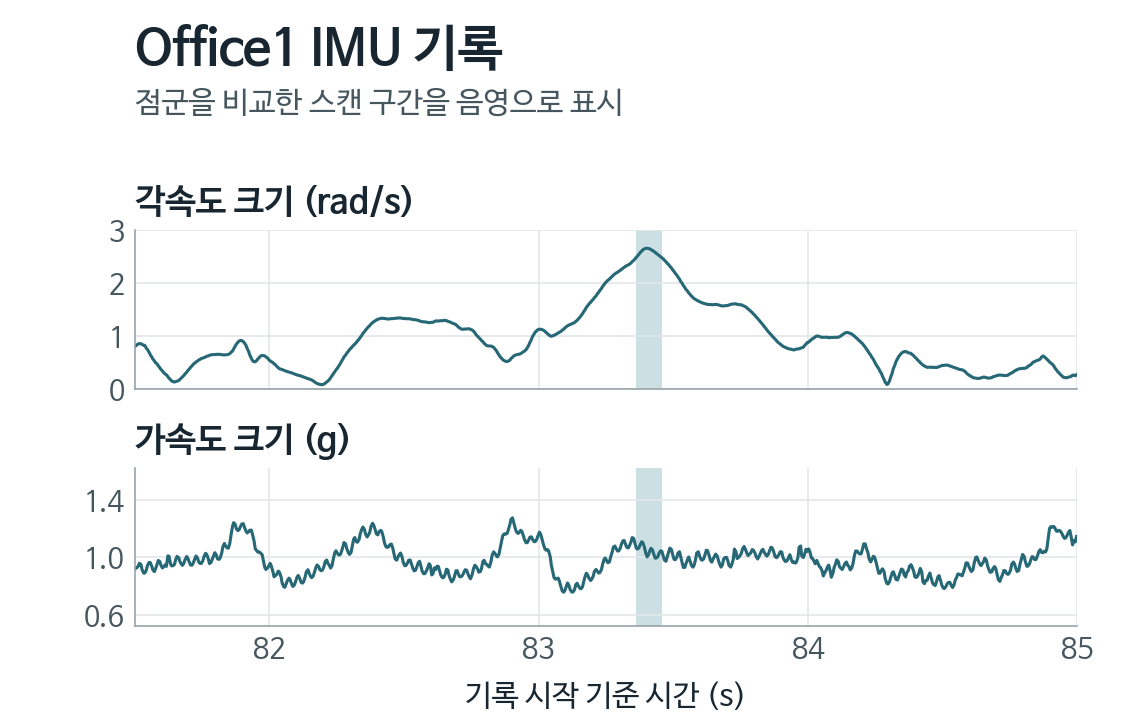
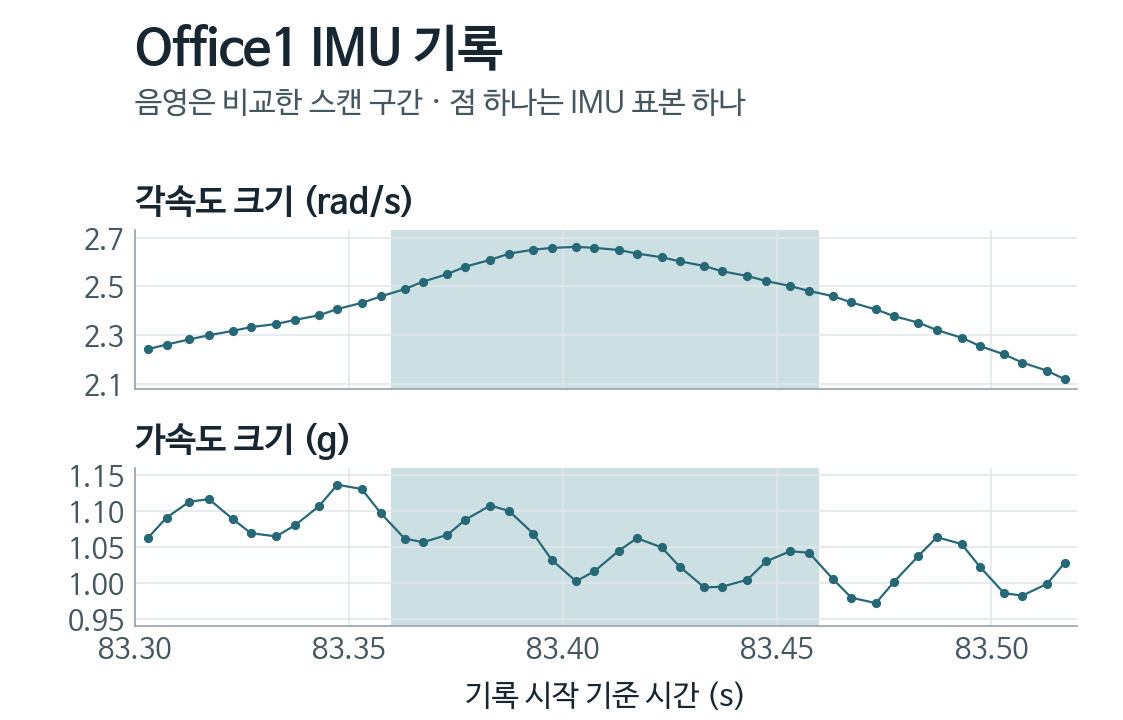
Follow one measured scan through LIO prediction and correction

diff --git a/src/content/blog/lio/index.md b/src/content/blog/lio/index.md
@@ -9,71 +9,68 @@ tags:
   - LIO
   - Odometry
   - ROS 2
-summary: "IMU 상태 전파와 LiDAR 정합을 실측 점군과 주행 궤적으로 정리."
+summary: "Office1 스캔 한 구간의 IMU 예측, 왜곡 보정, 점–평면 정합."
 ---
 
-**LIO**(LiDAR–Inertial Odometry)는 IMU와 LiDAR로 3차원 위치·회전을 추정한다. **IMU 전파 → 스캔 왜곡 보정 → LiDAR 정합**.
+**LIO**(LiDAR–Inertial Odometry)는 IMU와 LiDAR로 위치와 회전을 추정한다. FAST-LIO2처럼 스캔 단위로 처리하는 방식은 먼저 IMU로 스캔 끝 자세를 예측한다. 그 사이의 움직임으로 점들의 좌표를 맞춘 뒤, 앞서 본 벽과 바닥에 정합해 예측 자세를 고친다. [FAST-LIO2 논문 IV절][fast-lio2]
 
-![실제 복도 사진과 같은 장면에 투영한 LiDAR 점.](./office3-scene.jpg)
+Office1 기록의 83.360–83.460초 구간에서는 LiDAR 패킷 5개를 한 스캔으로 묶었다. 이 100 ms 동안 내장 IMU가 20번 값을 기록했고, 자이로를 적분한 회전량은 14.8°였다. [Zhang 외, Office1][office1] · [CC BY 4.0][cc-by]
 
-*복도 사진에 촬영 시각 ±48 ms의 LiDAR 점 투영. [Zhang 외, Office3][office3] · [CC BY 4.0][cc-by]*
+## IMU 전파
 
-## IMU 상태 전파
+직전 스캔에서 보정한 **위치·회전·속도**에서 시작한다. 자이로로 각속도를 읽을 때마다 바이어스를 빼고 짧은 시간 간격만큼 적분해 회전을 갱신한다. 가속도계의 값도 바이어스를 뺀 뒤, 갱신한 회전으로 오도메트리 좌표계에 옮기고 중력 벡터를 더한다. 이렇게 얻은 가속도를 적분해 속도와 위치를 이어 간다. [FAST-LIO2 논문 IV-A절][fast-lio2-model]
 
-- 자이로 · 바이어스 보정 후 각속도 적분, 회전 예측.
-- 가속도계 · 바이어스 보정·좌표 변환·중력 반영 후 속도·위치 적분. [FAST-LIO2 논문 IV절][fast-lio2]
+![Office1 IMU의 각속도와 가속도계 측정값. 음영은 83.360–83.460초 스캔 구간.](./office1-imu.png)
 
-![Office1 IMU의 각속도와 가속도계 측정값 크기. 다음 그림에 사용한 약 100 ms 스캔 구간이 음영으로 표시돼 있다.](./office1-imu.png)
+*음영은 아래에서 왜곡을 보정한 스캔의 시작과 끝을 표시한다.*
 
-*Livox MID-360 내장 IMU 실측값. 음영은 점군 비교 구간. [Zhang 외, Office1][office1] · [CC BY 4.0][cc-by]*
+자이로에 작은 바이어스가 남으면 샘플을 적분할 때 회전 오차가 쌓인다. 기울기 추정이 틀어지면 중력을 보정한 뒤에도 수평 가속도처럼 보이는 오차가 남는다. [LIO-SAM 논문 III-B절][lio-sam-imu]
 
-## 스캔 왜곡 보정 (Deskew)
+## 스캔 왜곡 보정
 
-- 점마다 취득 시각이 달라 센서가 움직이면 벽이 휘어 보임.
-- IMU로 추정한 점별 상대 자세로 공통 시각에 정렬. FAST-LIO2는 스캔 끝 기준. [FAST-LIO2 논문 IV절][fast-lio2]
+한 스캔의 첫 점과 마지막 점은 서로 다른 LiDAR 좌표계에서 찍힌다. 가령 회전축에서 5 m 떨어진 점은 센서가 제자리에서 14.8° 돌 때 좌표가 약 1.29 m 바뀐다. 점별 취득 시각을 무시하고 합치면 곧은 벽도 휘거나 두껍게 보인다.
 
-![같은 스캔의 XY 투영. 왼쪽은 원시 점군, 오른쪽은 점을 스캔 끝 자세로 회전 보정한 점군.](./office1-deskew.png)
+IMU 자세에 LiDAR→IMU 변환을 곱하면 LiDAR 자세를 얻는다. `T_i`는 점 `p_i`를 찍은 시각의 LiDAR 자세, `T_end`는 스캔 끝 자세다. 두 자세 모두 LiDAR 좌표를 같은 오도메트리 좌표계로 옮긴다. `T_i`로 점을 옮긴 뒤 `T_end`를 역으로 적용하면 스캔 끝의 LiDAR 좌표가 된다. FAST-LIO2는 이 시각을 기준으로 모든 점을 맞춘다. [FAST-LIO2 논문 IV-A.2절][fast-lio2-deskew]
 
-*약 100 ms 동안 자이로 적분 기준 14.8° 회전한 구간. 오른쪽은 회전 성분만 보정. [Zhang 외, Office1][office1] · [CC BY 4.0][cc-by]*
+```text
+p_end = inv(T_end) · T_i · p_i
+```
 
-## 점–평면 정합
+![동일한 Office1 점군의 회전 보정 전후. 오른쪽은 각 점을 스캔 끝 좌표계에 맞춘 결과.](./office1-deskew.png)
 
-- 예측 자세로 옮긴 스캔 점 `p`를 참조 점군의 가까운 평면에 대응.
-- 평면 위의 점 `q`, 단위 법선 `n`으로 부호 있는 수직 잔차 `r = nᵀ · (p − q)` 계산. 잔차가 줄도록 자세 갱신. [FAST-LIO2 논문 IV절][fast-lio2]
-- 벽과 평행한 이동에서는 잔차가 그대로. 평행한 벽만 보이는 복도는 진행 방향 보정이 약함. [LION 논문][lion]
+*같은 범위와 축척. 오른쪽은 자이로로 계산한 회전 성분만 적용했다.*
 
-![벽을 따라 점을 옮겨도 벽까지의 수직 거리 r이 그대로인 점–평면 정합 개념도.](./point-plane.png)
+점이 찍힌 시각의 자세를 찾으려면 LiDAR와 IMU가 같은 시간축을 써야 한다. 위 스캔의 회전량을 평균 속도로 환산하면 약 148°/s다. 이 속도에서 시계가 10 ms 어긋나면 점을 옮길 때 쓰는 회전도 약 1.5° 어긋난다. bag에서는 `time`, `t`, `offset_time` 같은 점별 시각 필드의 단위와 기준 시각을 확인한다. [FAST-LIO 입력 설정][fast-lio-input] · [LI-Init 논문][li-init]
 
-## 대표 구현
+## LiDAR 정합
 
-- **FAST-LIO2** · 점–평면 잔차를 반복 확장 칼만 필터에 직접 반영. [논문][fast-lio2] · [시연][fast-lio2-demo]
-- **LIO-SAM** · 모서리·평면 정합으로 구한 상대 자세와 IMU 사전 적분을 팩터 그래프에서 결합. [논문][lio-sam] · [시연][lio-sam-demo]
+스캔 끝 기준으로 정리한 점군을 IMU가 예측한 자세에 놓는다. 그 자세가 조금 빗나갔다면 새로 찍은 벽 점과 참조 점군의 벽 사이에 간격이 남는다. FAST-LIO2는 새 점 `p` 주위에서 참조 점을 찾아 평면을 맞춘다. 평면 위의 점이 `q`, 단위 법선이 `n`이면 `r = nᵀ · (p − q)`가 부호 있는 수직 거리다. 여러 벽과 바닥에서 얻은 잔차가 함께 작아지도록 위치와 회전을 바꾼다. [FAST-LIO2 논문 IV-B절][fast-lio2-update]
 
-## FAST-LIO2 주행 결과
+Office1에서 계산한 예시는 위 스캔과 직전 스캔 사이의 점–평면 ICP다. 두 스캔의 회전 왜곡을 보정한 뒤 자이로 상대 회전과 병진 초기값 0 m에서 정합했다. 평가용 대응 2,097쌍을 고정해 비교하면 수직 거리 절댓값의 중앙값은 **3.0 cm → 1.3 cm**였다.
 
-![야외 실험용 MORPHEUS 로버 사진 두 장. Ouster OS1-32와 Livox Horizon 장착부가 표시돼 있다.](./fast-lio2-rover.jpg)
+![Office1의 같은 평면을 관측한 연속 두 스캔. 자이로 초기값에서는 두 점군이 떨어져 있고, 점–평면 정합 후 가까워진다.](./office1-registration.png)
 
-*FAST-LIO2를 시험한 MORPHEUS 로버와 LiDAR 장착 위치. [Fortuna 외, 그림 2a 발췌][fast-lio2-experiment] · [CC BY 4.0][cc-by]*
+*두 스캔이 함께 본 평면 한 곳을 확대했다. 오른쪽에서 두 점군의 수직 간격이 줄었다.*
 
-![두 LiDAR로 각각 추정한 FAST-LIO2의 평면 주행 궤적과 RTK 기준 궤적 비교.](./fast-lio2-trajectory.png)
+벽 쪽으로 다가가면 수직 거리가 바뀐다. 벽과 평행한 이동에서는 그대로다. 끝이 보이지 않는 복도에서 평행한 벽과 바닥만 잡히면 진행 방향 이동량을 LiDAR로 보정하기 어렵다. 진행 방향을 가로막는 끝 벽까지 관측되면 그 방향의 이동도 제약할 수 있다. [LION 논문][lion]
 
-*GNSS RTK 좌표계에 정렬한 OS1-32·Horizon의 FAST-LIO2 추정 궤적. [Fortuna 외, 그림 4b 발췌][fast-lio2-experiment] · [CC BY 4.0][cc-by]*
+![벽에 평행하게 점을 옮겨도 점에서 벽까지의 수직 잔차 r이 같게 유지되는 개념도.](./point-plane.png)
 
-## ROS 2 bag 점검
+## 상태 갱신
 
-- **점별 시각** · `time`·`t`·`offset_time` 등 필드의 단위와 기준 시각. [FAST-LIO 입력 설정][fast-lio-input]
-- **동기화** · LiDAR와 IMU의 시계 오프셋, 스캔 구간을 덮는 IMU 측정. [LI-Init 논문][li-init]
-- **외부 보정과 단위** · LiDAR→IMU 변환 방향과 축. 자이로 `rad/s`, 가속도계 `m/s²`로 변환. [FAST-LIO 입력 설정][fast-lio-input] · [ROS REP-145][rep-145]
+FAST-LIO2는 **IMU 예측과 점–평면 잔차**를 반복 확장 칼만 필터에 넣는다. IMU 예측의 불확실성과 LiDAR 관측을 함께 반영해 상태를 갱신한다. 복도처럼 특정 방향에서 잔차가 거의 변하지 않으면 그 방향은 IMU 예측에 더 의존한다. 자세 보정은 속도와 IMU 바이어스 추정에도 반영될 수 있다. 다음 스캔에서는 이 상태부터 다시 적분한다. [FAST-LIO2 논문 IV-B절][fast-lio2-update] · [저자 시연][fast-lio2-demo]
 
-[fast-lio2]: https://arxiv.org/html/2107.06829
-[lio-sam]: https://arxiv.org/html/2007.00258
-[lion]: https://arxiv.org/html/2102.03443#S3.SS2
+LIO-SAM은 LiDAR 정합이 구한 상대 자세와 여러 IMU 샘플의 사전 적분을 팩터 그래프로 묶어 상태를 갱신한다. [LIO-SAM 논문 III절][lio-sam]
+
+[fast-lio2]: https://arxiv.org/html/2107.06829#S4
+[fast-lio2-model]: https://arxiv.org/html/2107.06829#S4.SS1
+[fast-lio2-deskew]: https://arxiv.org/html/2107.06829#S4.SS1.SSS2
+[fast-lio2-update]: https://arxiv.org/html/2107.06829#S4.SS2
 [fast-lio2-demo]: https://youtu.be/2OvjGnxszf8
-[lio-sam-demo]: https://youtu.be/A0H8CoORZJU
-[fast-lio2-experiment]: https://www.mdpi.com/1424-8220/25/17/5352
+[lio-sam]: https://arxiv.org/html/2007.00258#S3
+[lio-sam-imu]: https://arxiv.org/html/2007.00258#S3.SS2
+[lion]: https://arxiv.org/html/2102.03443#Ch0.S3.SS2
 [office1]: https://huggingface.co/datasets/xiaofan0100/Elevator-LIO-Dataset/blob/main/Office1.bag
-[office3]: https://huggingface.co/datasets/xiaofan0100/Elevator-LIO-Dataset/blob/main/Office3.bag
 [cc-by]: https://creativecommons.org/licenses/by/4.0/
 [fast-lio-input]: https://github.com/hku-mars/FAST_LIO#3-directly-run
 [li-init]: https://arxiv.org/abs/2202.11006
-[rep-145]: https://github.com/ros-infrastructure/rep/blob/master/rep-0145.rst#data-reporting
